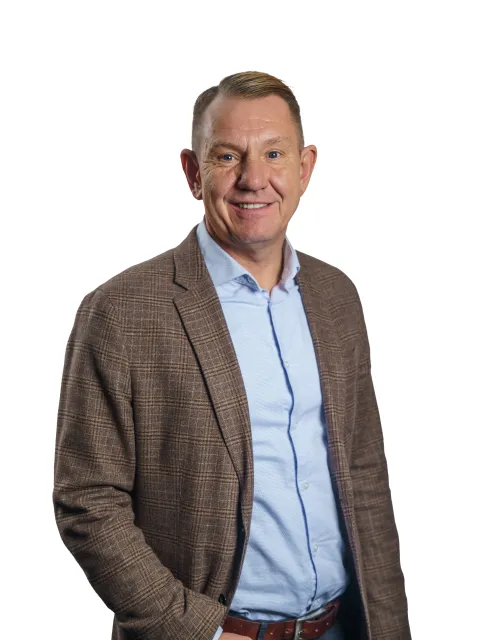
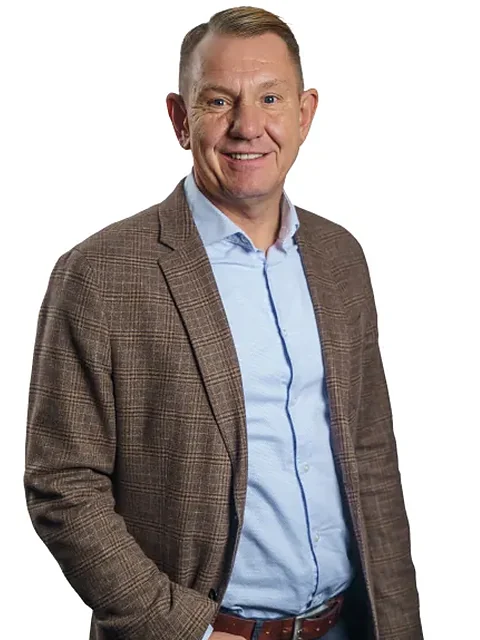
Söluaðilar jafnir: Kjartan stækkaður eins og Ingimundur, textalínur í sömu hæð

diff --git a/index.html b/index.html
@@ -16,7 +16,7 @@
   <link rel="preconnect" href="https://fonts.gstatic.com" crossorigin />
   <link rel="preconnect" href="https://xaxxpffrkmuithwmvswq.supabase.co" crossorigin />
   <link href="https://fonts.googleapis.com/css2?family=Hanken+Grotesk:wght@300;400;600&family=Inter:wght@300;400;500;600&family=Zilla+Slab:wght@600;700&family=DM+Sans:wght@400;500;600;700&display=swap" rel="stylesheet" />
-  <link rel="stylesheet" href="css/styles.css?v=326" />
+  <link rel="stylesheet" href="css/styles.css?v=327" />
   <script>(function(){try{var u=new URL(location.href),d=0,junk=["fbclid","gclid","gbraid","wbraid","msclkid","mc_eid","mc_cid","igshid","twclid","yclid","_openstat"];junk.forEach(function(k){if(u.searchParams.has(k)){u.searchParams.delete(k);d=1}});Array.from(u.searchParams.keys()).forEach(function(k){if(/^utm_/i.test(k)){u.searchParams.delete(k);d=1}});if(d)history.replaceState(null,"",u.pathname+(u.searchParams.toString()?"?"+u.searchParams.toString():"")+u.hash)}catch(e){}})();</script>
 </head>
 <body class="home">
@@ -249,7 +249,7 @@
               <a class="agent__line" data-i18n="ag.2.email" href="mailto:gudrun@miklaborg.is">gudrun@miklaborg.is</a>
             </article>
             <article class="agent" data-block="agent3">
-              <div class="agent__avatar"><img data-img="img.ag3" loading="lazy" decoding="async" src="assets/agents/kjartan.webp?m=1" alt="Kjartan Ísak Guðmundsson" /></div>
+              <div class="agent__avatar"><img data-img="img.ag3" loading="lazy" decoding="async" src="assets/agents/kjartan.webp?m=2" alt="Kjartan Ísak Guðmundsson" /></div>
               <h3 class="agent__name" data-i18n="ag.3.name">Kjartan Ísak Guðmundsson</h3>
               <p class="agent__title" data-i18n="ag.3.title">Löggiltur fasteignasali</p>
               <a class="agent__line" data-i18n="ag.3.phone" href="tel:+3546634392">663‑4392</a>
@@ -341,11 +341,11 @@
     <img id="planZoomImg" decoding="async" src="" alt="" />
   </div>
 
-  <script defer src="js/data.js?v=326"></script>
-  <script defer src="js/content.js?v=326"></script>
-  <script defer src="js/supabase-config.js?v=326"></script>
-  <script defer src="js/vbsupa.js?v=326"></script>
-  <script defer src="js/app.js?v=326"></script>
+  <script defer src="js/data.js?v=327"></script>
+  <script defer src="js/content.js?v=327"></script>
+  <script defer src="js/supabase-config.js?v=327"></script>
+  <script defer src="js/vbsupa.js?v=327"></script>
+  <script defer src="js/app.js?v=327"></script>
   <script>
   /* forsíðuhnappar (áður í cine.js): „Skoða íbúðir“ → framhlið · footer-logo → toppur */
   (function(){
@@ -376,7 +376,7 @@
     [['edit','calibrate'],['planedit','planedit'],['mask','maskedit'],['conedit','conedit'],['kjedit','kjedit']].forEach(function(p){
       if(new RegExp('[?&]'+p[0]+'(?:[=&]|$)').test(location.search)){
         virkur=true;
-        var s=document.createElement('script');s.src='js/'+p[1]+'.js?v=326';document.body.appendChild(s);
+        var s=document.createElement('script');s.src='js/'+p[1]+'.js?v=327';document.body.appendChild(s);
       }
     });
     if(!virkur) return;

diff --git a/husid.html b/husid.html
@@ -16,8 +16,8 @@
   <link rel="preconnect" href="https://fonts.gstatic.com" crossorigin />
   <link rel="preconnect" href="https://xaxxpffrkmuithwmvswq.supabase.co" crossorigin />
   <link href="https://fonts.googleapis.com/css2?family=Zilla+Slab:wght@600;700&family=DM+Sans:wght@400;500;600;700&display=swap" rel="stylesheet" />
-  <link rel="stylesheet" href="css/styles.css?v=326" />
-  <link rel="stylesheet" href="css/chapter.css?v=326" />
+  <link rel="stylesheet" href="css/styles.css?v=327" />
+  <link rel="stylesheet" href="css/chapter.css?v=327" />
   <script>(function(){try{var u=new URL(location.href),d=0,junk=["fbclid","gclid","gbraid","wbraid","msclkid","mc_eid","mc_cid","igshid","twclid","yclid","_openstat"];junk.forEach(function(k){if(u.searchParams.has(k)){u.searchParams.delete(k);d=1}});Array.from(u.searchParams.keys()).forEach(function(k){if(/^utm_/i.test(k)){u.searchParams.delete(k);d=1}});if(d)history.replaceState(null,"",u.pathname+(u.searchParams.toString()?"?"+u.searchParams.toString():"")+u.hash)}catch(e){}})();</script>
 </head>
 <body class="is-chapter">
@@ -123,11 +123,11 @@
       </nav>
     </div>
   </footer>
-  <script defer src="js/data.js?v=326"></script>
-  <script defer src="js/content.js?v=326"></script>
-  <script defer src="js/supabase-config.js?v=326"></script>
-  <script defer src="js/vbsupa.js?v=326"></script>
-  <script defer src="js/page.js?v=326"></script>
-  <script defer src="js/chapter.js?v=326"></script>
+  <script defer src="js/data.js?v=327"></script>
+  <script defer src="js/content.js?v=327"></script>
+  <script defer src="js/supabase-config.js?v=327"></script>
+  <script defer src="js/vbsupa.js?v=327"></script>
+  <script defer src="js/page.js?v=327"></script>
+  <script defer src="js/chapter.js?v=327"></script>
 </body>
 </html>

diff --git a/hverfid.html b/hverfid.html
@@ -16,8 +16,8 @@
   <link rel="preconnect" href="https://fonts.gstatic.com" crossorigin />
   <link rel="preconnect" href="https://xaxxpffrkmuithwmvswq.supabase.co" crossorigin />
   <link href="https://fonts.googleapis.com/css2?family=Zilla+Slab:wght@600;700&family=DM+Sans:wght@400;500;600;700&display=swap" rel="stylesheet" />
-  <link rel="stylesheet" href="css/styles.css?v=326" />
-  <link rel="stylesheet" href="css/chapter.css?v=326" />
+  <link rel="stylesheet" href="css/styles.css?v=327" />
+  <link rel="stylesheet" href="css/chapter.css?v=327" />
   <script>(function(){try{var u=new URL(location.href),d=0,junk=["fbclid","gclid","gbraid","wbraid","msclkid","mc_eid","mc_cid","igshid","twclid","yclid","_openstat"];junk.forEach(function(k){if(u.searchParams.has(k)){u.searchParams.delete(k);d=1}});Array.from(u.searchParams.keys()).forEach(function(k){if(/^utm_/i.test(k)){u.searchParams.delete(k);d=1}});if(d)history.replaceState(null,"",u.pathname+(u.searchParams.toString()?"?"+u.searchParams.toString():"")+u.hash)}catch(e){}})();</script>
 </head>
 <body class="is-chapter">
@@ -2611,10 +2611,10 @@
       </nav>
     </div>
   </footer>
-  <script defer src="js/content.js?v=326"></script>
-  <script defer src="js/supabase-config.js?v=326"></script>
-  <script defer src="js/vbsupa.js?v=326"></script>
-  <script defer src="js/page.js?v=326"></script>
-  <script defer src="js/chapter.js?v=326"></script>
+  <script defer src="js/content.js?v=327"></script>
+  <script defer src="js/supabase-config.js?v=327"></script>
+  <script defer src="js/vbsupa.js?v=327"></script>
+  <script defer src="js/page.js?v=327"></script>
+  <script defer src="js/chapter.js?v=327"></script>
 </body>
 </html>

diff --git a/adgengi.html b/adgengi.html
@@ -16,8 +16,8 @@
   <link rel="preconnect" href="https://fonts.gstatic.com" crossorigin />
   <link rel="preconnect" href="https://xaxxpffrkmuithwmvswq.supabase.co" crossorigin />
   <link href="https://fonts.googleapis.com/css2?family=Zilla+Slab:wght@600;700&family=DM+Sans:wght@400;500;600;700&display=swap" rel="stylesheet" />
-  <link rel="stylesheet" href="css/styles.css?v=326" />
-  <link rel="stylesheet" href="css/chapter.css?v=326" />
+  <link rel="stylesheet" href="css/styles.css?v=327" />
+  <link rel="stylesheet" href="css/chapter.css?v=327" />
   <script>(function(){try{var u=new URL(location.href),d=0,junk=["fbclid","gclid","gbraid","wbraid","msclkid","mc_eid","mc_cid","igshid","twclid","yclid","_openstat"];junk.forEach(function(k){if(u.searchParams.has(k)){u.searchParams.delete(k);d=1}});Array.from(u.searchParams.keys()).forEach(function(k){if(/^utm_/i.test(k)){u.searchParams.delete(k);d=1}});if(d)history.replaceState(null,"",u.pathname+(u.searchParams.toString()?"?"+u.searchParams.toString():"")+u.hash)}catch(e){}})();</script>
 </head>
 <body class="is-chapter">
@@ -105,10 +105,10 @@
       </nav>
     </div>
   </footer>
-  <script defer src="js/content.js?v=326"></script>
-  <script defer src="js/supabase-config.js?v=326"></script>
-  <script defer src="js/vbsupa.js?v=326"></script>
-  <script defer src="js/page.js?v=326"></script>
-  <script defer src="js/chapter.js?v=326"></script>
+  <script defer src="js/content.js?v=327"></script>
+  <script defer src="js/supabase-config.js?v=327"></script>
+  <script defer src="js/vbsupa.js?v=327"></script>
+  <script defer src="js/page.js?v=327"></script>
+  <script defer src="js/chapter.js?v=327"></script>
 </body>
 </html>

diff --git a/arkitektur.html b/arkitektur.html
@@ -16,8 +16,8 @@
   <link rel="preconnect" href="https://fonts.gstatic.com" crossorigin />
   <link rel="preconnect" href="https://xaxxpffrkmuithwmvswq.supabase.co" crossorigin />
   <link href="https://fonts.googleapis.com/css2?family=Zilla+Slab:wght@600;700&family=DM+Sans:wght@400;500;600;700&display=swap" rel="stylesheet" />
-  <link rel="stylesheet" href="css/styles.css?v=326" />
-  <link rel="stylesheet" href="css/chapter.css?v=326" />
+  <link rel="stylesheet" href="css/styles.css?v=327" />
+  <link rel="stylesheet" href="css/chapter.css?v=327" />
   <script>(function(){try{var u=new URL(location.href),d=0,junk=["fbclid","gclid","gbraid","wbraid","msclkid","mc_eid","mc_cid","igshid","twclid","yclid","_openstat"];junk.forEach(function(k){if(u.searchParams.has(k)){u.searchParams.delete(k);d=1}});Array.from(u.searchParams.keys()).forEach(function(k){if(/^utm_/i.test(k)){u.searchParams.delete(k);d=1}});if(d)history.replaceState(null,"",u.pathname+(u.searchParams.toString()?"?"+u.searchParams.toString():"")+u.hash)}catch(e){}})();</script>
 </head>
 <body class="is-chapter">
@@ -108,10 +108,10 @@
       </nav>
     </div>
   </footer>
-  <script defer src="js/content.js?v=326"></script>
-  <script defer src="js/supabase-config.js?v=326"></script>
-  <script defer src="js/vbsupa.js?v=326"></script>
-  <script defer src="js/page.js?v=326"></script>
-  <script defer src="js/chapter.js?v=326"></script>
+  <script defer src="js/content.js?v=327"></script>
+  <script defer src="js/supabase-config.js?v=327"></script>
+  <script defer src="js/vbsupa.js?v=327"></script>
+  <script defer src="js/page.js?v=327"></script>
+  <script defer src="js/chapter.js?v=327"></script>
 </body>
 </html>

diff --git a/utsyni.html b/utsyni.html
@@ -16,8 +16,8 @@
   <link rel="preconnect" href="https://fonts.gstatic.com" crossorigin />
   <link rel="preconnect" href="https://xaxxpffrkmuithwmvswq.supabase.co" crossorigin />
   <link href="https://fonts.googleapis.com/css2?family=Zilla+Slab:wght@600;700&family=DM+Sans:wght@400;500;600;700&display=swap" rel="stylesheet" />
-  <link rel="stylesheet" href="css/styles.css?v=326" />
-  <link rel="stylesheet" href="css/chapter.css?v=326" />
+  <link rel="stylesheet" href="css/styles.css?v=327" />
+  <link rel="stylesheet" href="css/chapter.css?v=327" />
   <script>(function(){try{var u=new URL(location.href),d=0,junk=["fbclid","gclid","gbraid","wbraid","msclkid","mc_eid","mc_cid","igshid","twclid","yclid","_openstat"];junk.forEach(function(k){if(u.searchParams.has(k)){u.searchParams.delete(k);d=1}});Array.from(u.searchParams.keys()).forEach(function(k){if(/^utm_/i.test(k)){u.searchParams.delete(k);d=1}});if(d)history.replaceState(null,"",u.pathname+(u.searchParams.toString()?"?"+u.searchParams.toString():"")+u.hash)}catch(e){}})();</script>
 </head>
 <body class="is-chapter">
@@ -118,10 +118,10 @@
       </nav>
     </div>
   </footer>
-  <script defer src="js/content.js?v=326"></script>
-  <script defer src="js/supabase-config.js?v=326"></script>
-  <script defer src="js/vbsupa.js?v=326"></script>
-  <script defer src="js/page.js?v=326"></script>
-  <script defer src="js/chapter.js?v=326"></script>
+  <script defer src="js/content.js?v=327"></script>
+  <script defer src="js/supabase-config.js?v=327"></script>
+  <script defer src="js/vbsupa.js?v=327"></script>
+  <script defer src="js/page.js?v=327"></script>
+  <script defer src="js/chapter.js?v=327"></script>
 </body>
 </html>

diff --git a/verkefnid.html b/verkefnid.html
@@ -16,8 +16,8 @@
   <link rel="preconnect" href="https://fonts.gstatic.com" crossorigin />
   <link rel="preconnect" href="https://xaxxpffrkmuithwmvswq.supabase.co" crossorigin />
   <link href="https://fonts.googleapis.com/css2?family=Zilla+Slab:wght@600;700&family=DM+Sans:wght@400;500;600;700&display=swap" rel="stylesheet" />
-  <link rel="stylesheet" href="css/styles.css?v=326" />
-  <link rel="stylesheet" href="css/chapter.css?v=326" />
+  <link rel="stylesheet" href="css/styles.css?v=327" />
+  <link rel="stylesheet" href="css/chapter.css?v=327" />
   <script>(function(){try{var u=new URL(location.href),d=0,junk=["fbclid","gclid","gbraid","wbraid","msclkid","mc_eid","mc_cid","igshid","twclid","yclid","_openstat"];junk.forEach(function(k){if(u.searchParams.has(k)){u.searchParams.delete(k);d=1}});Array.from(u.searchParams.keys()).forEach(function(k){if(/^utm_/i.test(k)){u.searchParams.delete(k);d=1}});if(d)history.replaceState(null,"",u.pathname+(u.searchParams.toString()?"?"+u.searchParams.toString():"")+u.hash)}catch(e){}})();</script>
 </head>
 <body class="is-chapter">
@@ -122,10 +122,10 @@
       </nav>
     </div>
   </footer>
-  <script defer src="js/content.js?v=326"></script>
-  <script defer src="js/supabase-config.js?v=326"></script>
-  <script defer src="js/vbsupa.js?v=326"></script>
-  <script defer src="js/page.js?v=326"></script>
-  <script defer src="js/chapter.js?v=326"></script>
+  <script defer src="js/content.js?v=327"></script>
+  <script defer src="js/supabase-config.js?v=327"></script>
+  <script defer src="js/vbsupa.js?v=327"></script>
+  <script defer src="js/page.js?v=327"></script>
+  <script defer src="js/chapter.js?v=327"></script>
 </body>
 </html>

diff --git a/hafa-samband.html b/hafa-samband.html
@@ -16,7 +16,7 @@
   <link rel="preconnect" href="https://fonts.gstatic.com" crossorigin />
   <link rel="preconnect" href="https://xaxxpffrkmuithwmvswq.supabase.co" crossorigin />
   <link href="https://fonts.googleapis.com/css2?family=Hanken+Grotesk:wght@300;400&family=Inter:wght@300;400;500;600&display=swap" rel="stylesheet" />
-  <link rel="stylesheet" href="css/styles.css?v=326" />
+  <link rel="stylesheet" href="css/styles.css?v=327" />
   <script>(function(){try{var u=new URL(location.href),d=0,junk=["fbclid","gclid","gbraid","wbraid","msclkid","mc_eid","mc_cid","igshid","twclid","yclid","_openstat"];junk.forEach(function(k){if(u.searchParams.has(k)){u.searchParams.delete(k);d=1}});Array.from(u.searchParams.keys()).forEach(function(k){if(/^utm_/i.test(k)){u.searchParams.delete(k);d=1}});if(d)history.replaceState(null,"",u.pathname+(u.searchParams.toString()?"?"+u.searchParams.toString():"")+u.hash)}catch(e){}})();</script>
 </head>
 <body class="is-contact">
@@ -106,9 +106,9 @@
   </main>
 
 
-  <script defer src="js/content.js?v=326"></script>
-  <script defer src="js/supabase-config.js?v=326"></script>
-  <script defer src="js/vbsupa.js?v=326"></script>
-  <script defer src="js/contact.js?v=326"></script>
+  <script defer src="js/content.js?v=327"></script>
+  <script defer src="js/supabase-config.js?v=327"></script>
+  <script defer src="js/vbsupa.js?v=327"></script>
+  <script defer src="js/contact.js?v=327"></script>
 </body>
 </html>

diff --git a/admin.html b/admin.html
@@ -16,7 +16,7 @@
   <link rel="preconnect" href="https://xaxxpffrkmuithwmvswq.supabase.co" crossorigin />
   <link rel="preconnect" href="https://cdn.jsdelivr.net" crossorigin />
   <link href="https://fonts.googleapis.com/css2?family=Hanken+Grotesk:wght@300;400&family=Inter:wght@300;400;500;600&display=swap" rel="stylesheet" />
-  <link rel="stylesheet" href="css/styles.css?v=326" />
+  <link rel="stylesheet" href="css/styles.css?v=327" />
   <style>
     body.is-admin{background:#0b0c0d;color:#f3f1ec;min-height:100vh;font-family:var(--font)}
     .ad__top{display:flex;align-items:center;justify-content:space-between;padding:1.3rem clamp(20px,5vw,60px);
@@ -235,10 +235,10 @@ create policy "img update" on storage.objects for update to anon using (bucket_i
 
   <div class="ad__toast" id="toast"></div>
 
-  <script defer src="js/data.js?v=326"></script>
-  <script defer src="js/content.js?v=326"></script>
-  <script defer src="js/supabase-config.js?v=326"></script>
+  <script defer src="js/data.js?v=327"></script>
+  <script defer src="js/content.js?v=327"></script>
+  <script defer src="js/supabase-config.js?v=327"></script>
   <script defer src="https://cdn.jsdelivr.net/npm/@supabase/supabase-js@2"></script>
-  <script defer src="js/admin.js?v=326"></script>
+  <script defer src="js/admin.js?v=327"></script>
 </body>
 </html>

diff --git a/css/styles.css b/css/styles.css
@@ -524,6 +524,8 @@ body.maskedit .facade__sides,body.maskedit .select__head{display:none!important}
 .agent__avatar img{width:100%;height:100%;object-fit:cover;object-position:center 12%}
 .agent__name{font-family:'Zilla Slab',Georgia,serif;font-weight:600;font-size:1.02rem;
   color:#262522;margin:0 0 .3rem;line-height:1.3}
+/* names that wrap to two lines must not push title/phone/email below the other cards */
+.agent__name{min-height:2.6em;display:flex;align-items:flex-end;justify-content:center}
 .agent__title{font-size:.72rem;letter-spacing:.06em;text-transform:uppercase;color:#a09a92;
   margin:0 0 1rem;line-height:1.45;max-width:22ch}
 .agent__line{display:block;color:#3a3d40;font-size:.92rem;text-decoration:none;margin-top:.3rem;
@@ -536,6 +538,7 @@ body.maskedit .facade__sides,body.maskedit .select__head{display:none!important}
   .sellers__brand{text-align:left}
 }
 @media(max-width:520px){
+  .agent__name{min-height:0}
   .sellers__grid{grid-template-columns:1fr}
   .agent:nth-child(even){border-left:0}
   .agent+.agent{border-top:1px solid #EFEDEA;padding-top:2.2rem}

diff --git a/ibud-3d.html b/ibud-3d.html
@@ -93,6 +93,6 @@
     "three/addons/": "https://cdn.jsdelivr.net/npm/three@0.160.0/examples/jsm/"
   }}
   </script>
-  <script type="module" src="js/explore3d.js?v=326"></script>
+  <script type="module" src="js/explore3d.js?v=327"></script>
 </body>
 </html>
